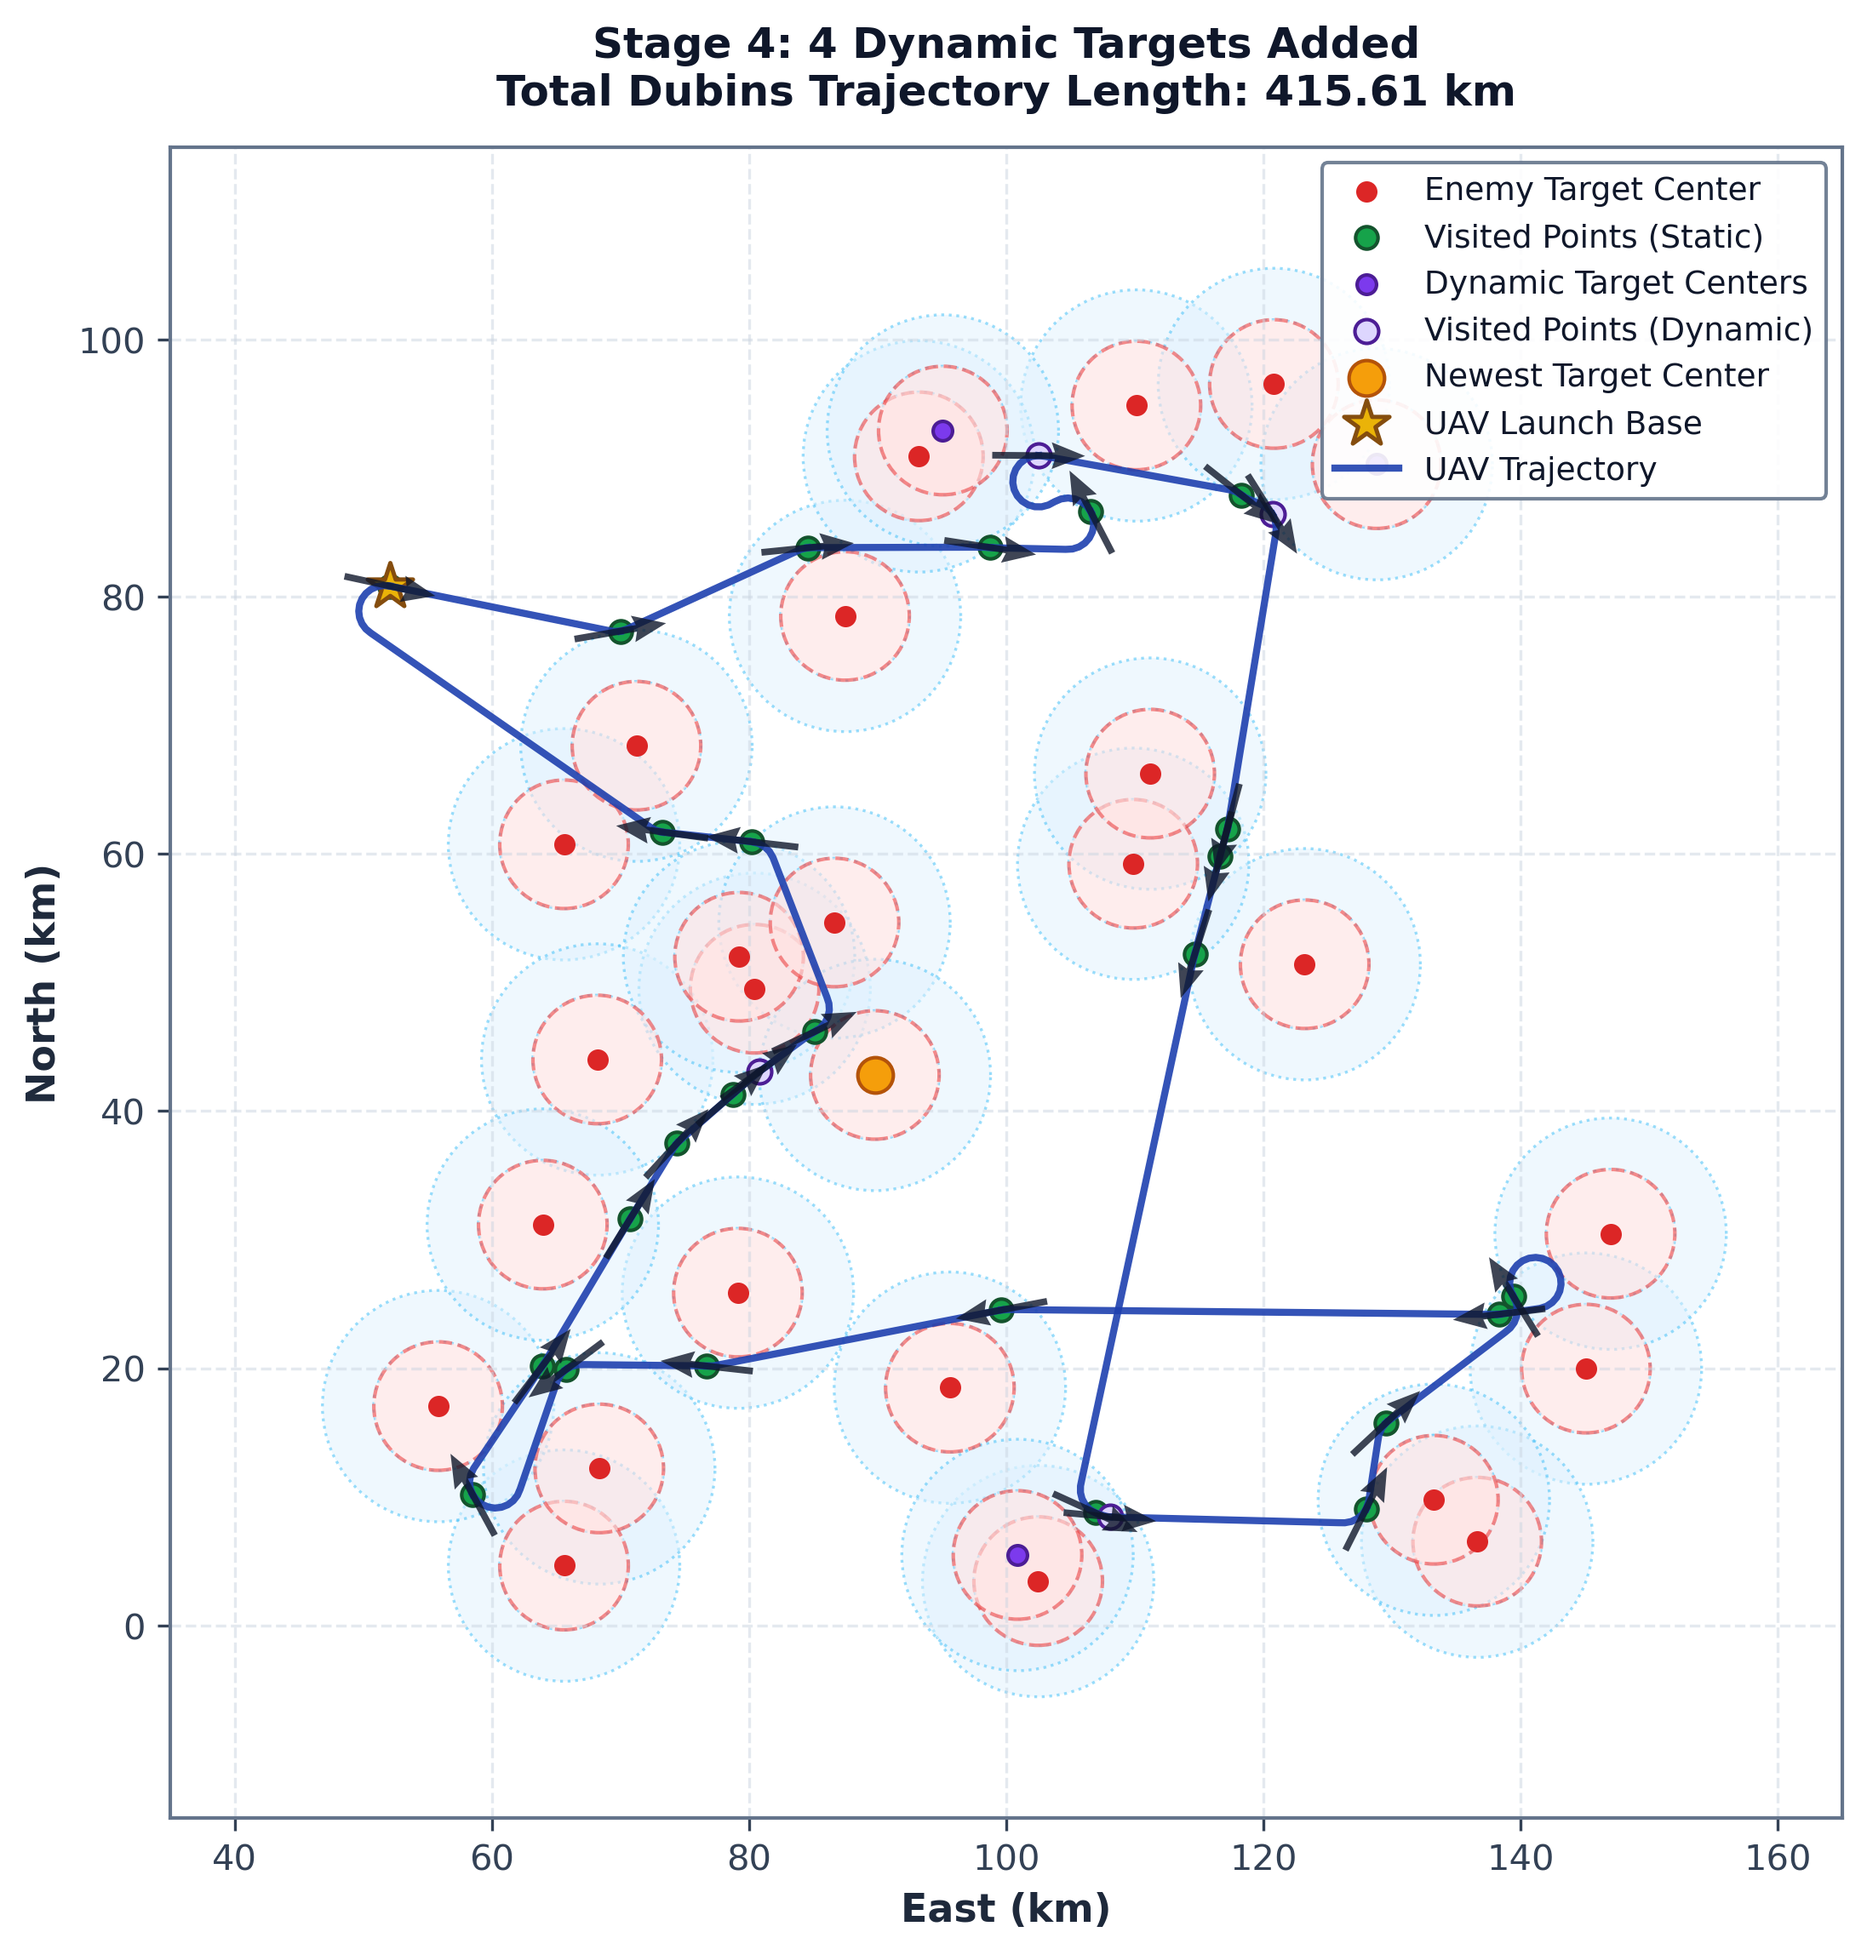
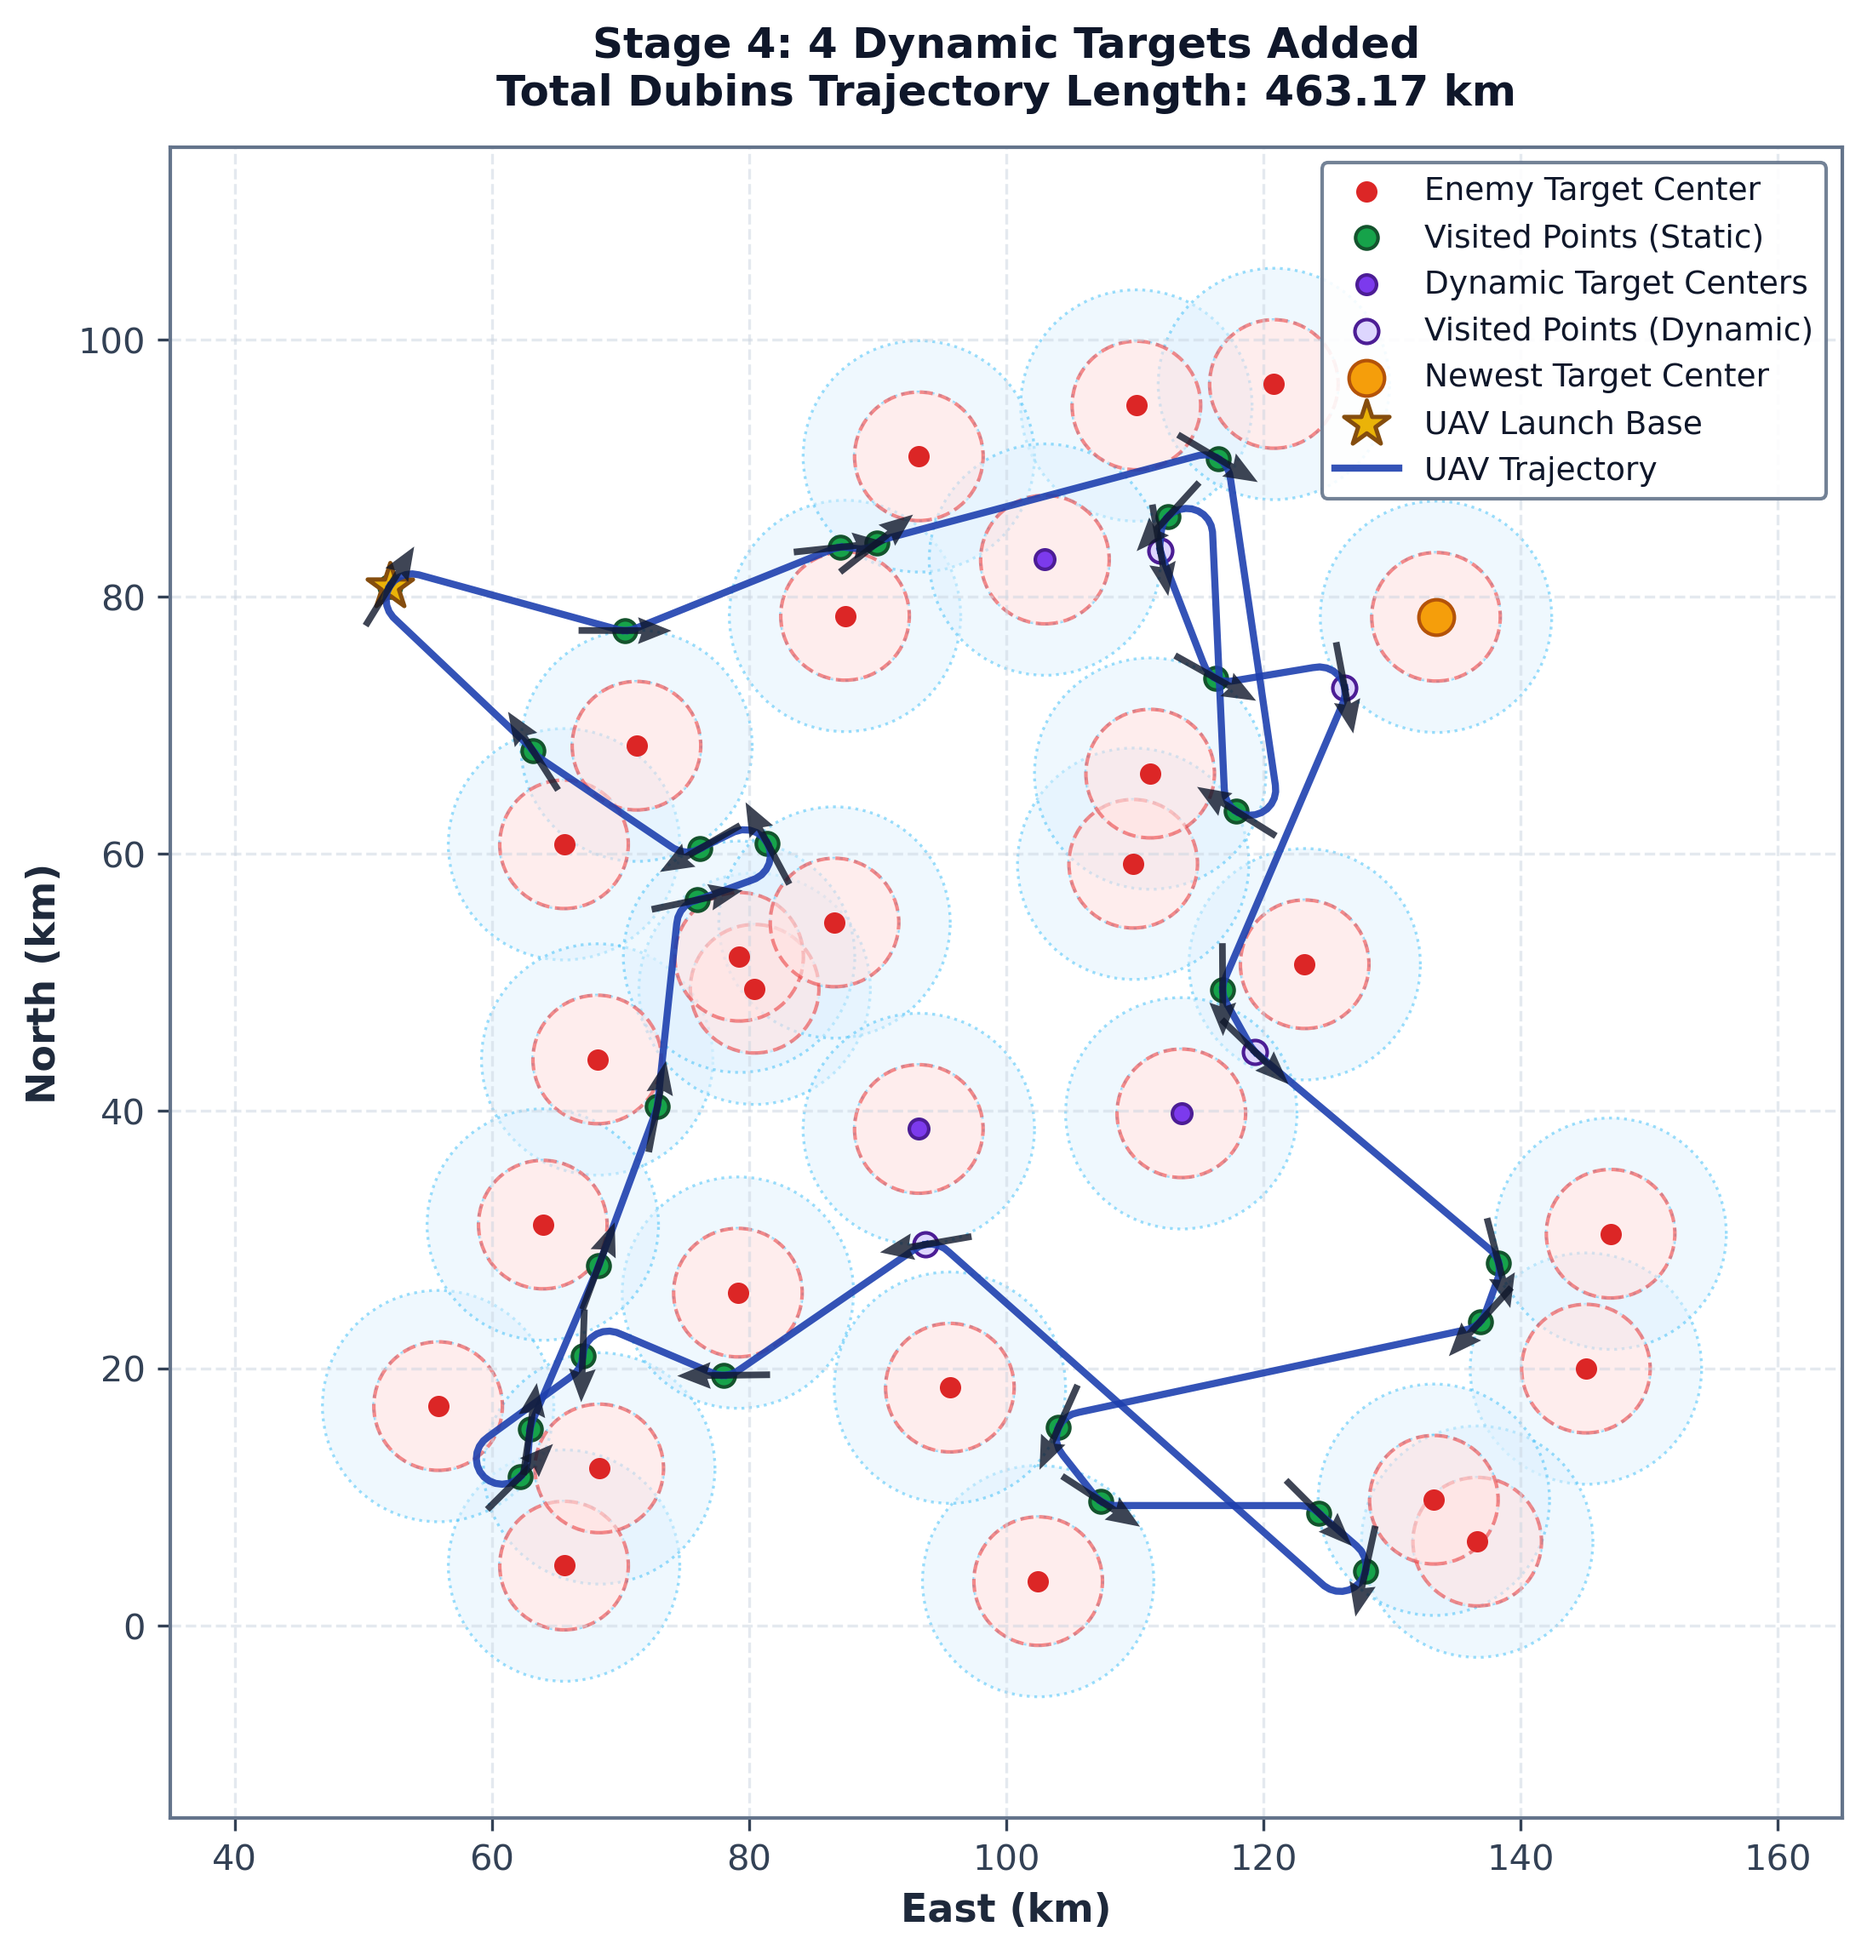
Fix: Strengthen obstacle collision penalty to strictly avoid no-fly zones

diff --git a/dtsp_uav/algorithms/simulated_annealing_tspn.py b/dtsp_uav/algorithms/simulated_annealing_tspn.py
@@ -43,8 +43,8 @@ class SimulatedAnnealingTSPN:
         num_collisions = 0
         n_route = len(indices)
         
-        penalty_base = 2000.0   # 每次碰撞的基本懲罰
-        penalty_slope = 3000.0  # 每侵入 1 km 額外增加的懲罰
+        penalty_base = 50000.0   # 每次碰撞的基本超重額懲罰 (強制不可碰撞)
+        penalty_slope = 50000.0  # 每侵入 1 km 額外增加的超重額懲罰
         collision_cost = 0.0
         
         for i in range(n_route):
@@ -59,10 +59,10 @@ class SimulatedAnnealingTSPN:
             if mode is None:
                 dist = np.linalg.norm(p1[:2] - p2[:2])
                 length = dist
-                px = np.linspace(p1[0], p2[0], 20)
-                py = np.linspace(p1[1], p2[1], 20)
+                px = np.linspace(p1[0], p2[0], 25)
+                py = np.linspace(p1[1], p2[1], 25)
             else:
-                px, py = self.cost_calculator._interpolate(p1, t, p, q, mode, step_size=2.0)
+                px, py = self.cost_calculator._interpolate(p1, t, p, q, mode, step_size=1.0)
             
             total_len += length
             

diff --git a/dtsp_uav/main_tspn.py b/dtsp_uav/main_tspn.py
@@ -62,6 +62,24 @@ def insert_new_center(route_indices, new_center_idx, centers):
             
     updated_indices = list(route_indices)
     updated_indices.insert(best_pos, new_center_idx)
+    
+    # 動態插入後執行快速 2-opt 消除交叉
+    improved = True
+    n = len(updated_indices)
+    while improved:
+        improved = False
+        for i in range(1, n - 1):
+            for j in range(i + 1, n):
+                a, b = updated_indices[i - 1], updated_indices[i]
+                c, d = updated_indices[j], updated_indices[(j + 1) % n]
+                d0 = np.linalg.norm(centers[a] - centers[b]) + np.linalg.norm(centers[c] - centers[d])
+                d1 = np.linalg.norm(centers[a] - centers[c]) + np.linalg.norm(centers[b] - centers[d])
+                if d1 < d0 - 1e-4:
+                    updated_indices[i:j + 1] = updated_indices[i:j + 1][::-1]
+                    improved = True
+                    break
+            if improved:
+                break
     return updated_indices
 
 def main():
